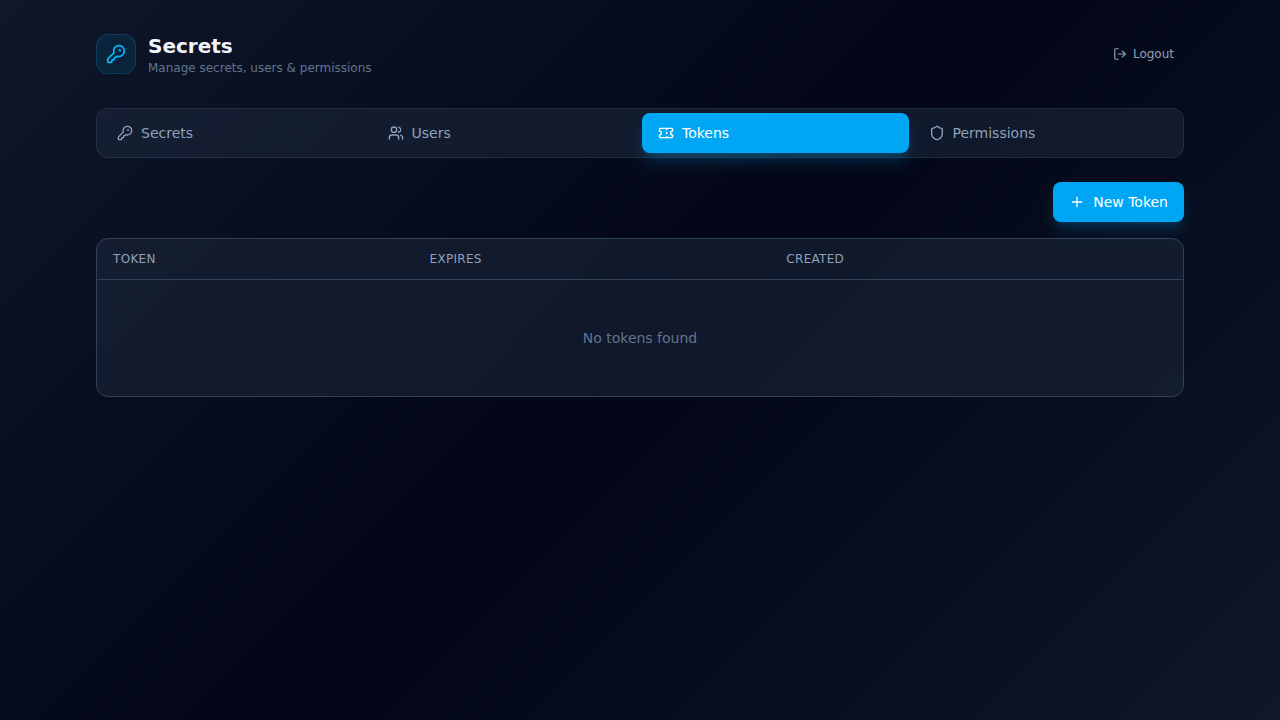
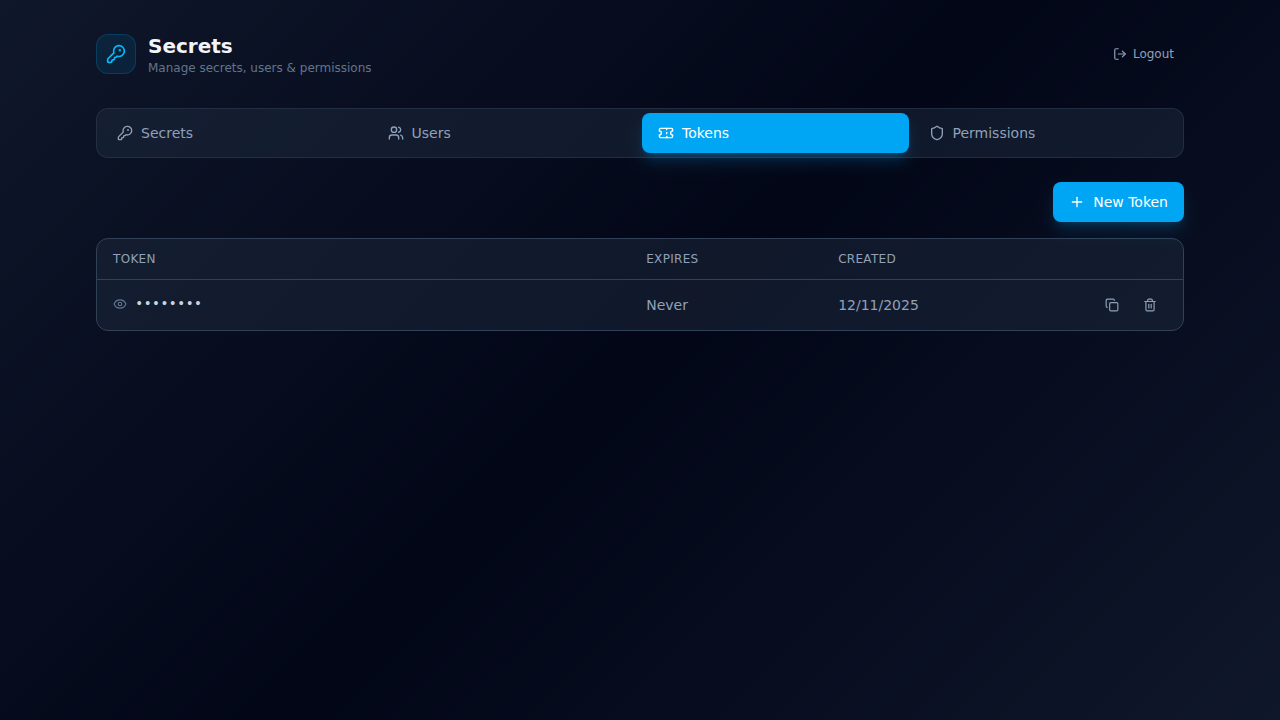
Add mock data to screenshots and include Cloudflare captcha
- Updated all screenshots with realistic mock data:
  - 5 secrets (aws/database-password, aws/api-key, stripe/secret-key, github/oauth-token, sendgrid/api-key)
  - 3 users (admin, developer, operations)
  - 1 API token with expiration
  - 3 permissions (aws/*, stripe/*, github/*)
- Added screenshot showing Cloudflare Turnstile captcha on login (07-login-with-captcha.png)
- Updated README.md and docs/README.md to reference the new captcha screenshot

diff --git a/docs/README.md b/docs/README.md
@@ -13,7 +13,8 @@ docs/
     ├── 03-secret-revealed.png    # Secret value revealed
     ├── 04-users-panel.png        # User management panel
     ├── 05-tokens-panel.png       # API token management panel
-    └── 06-permissions-panel.png  # Permission configuration panel
+    ├── 06-permissions-panel.png  # Permission configuration panel
+    └── 07-login-with-captcha.png # Login with Cloudflare Turnstile captcha
 ```
 
 ## Screenshots

diff --git a/README.md b/README.md
@@ -32,6 +32,9 @@ Self-hosted secrets management with web UI and REST API.
 ![Permissions Panel](docs/screenshots/06-permissions-panel.png)
 *Permission configuration for tokens*
 
+![Login with Cloudflare Turnstile](docs/screenshots/07-login-with-captcha.png)
+*Login page with Cloudflare Turnstile captcha enabled*
+
 ## Installation
 
 ```bash
